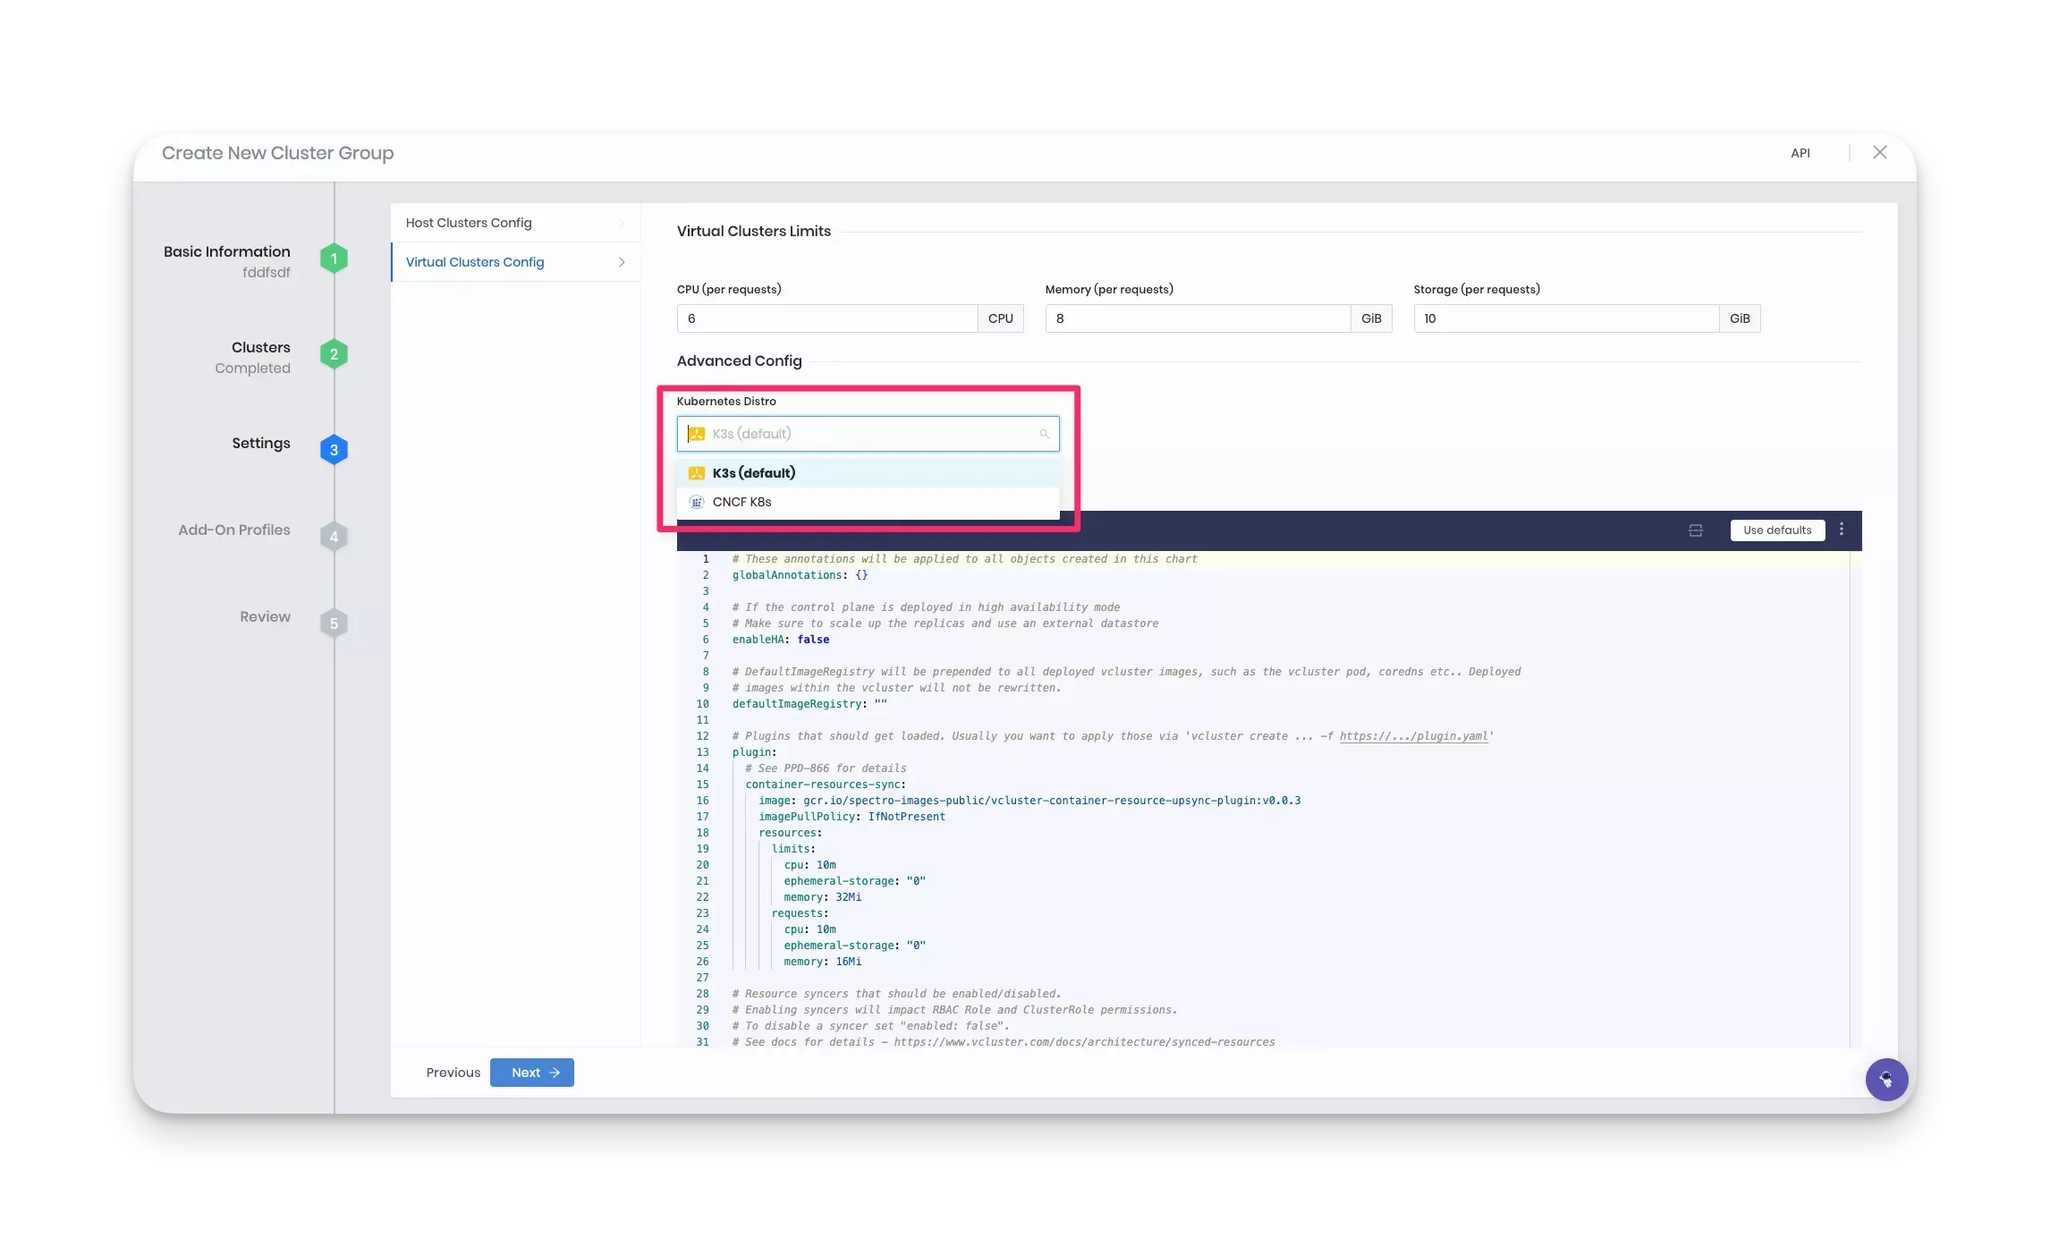
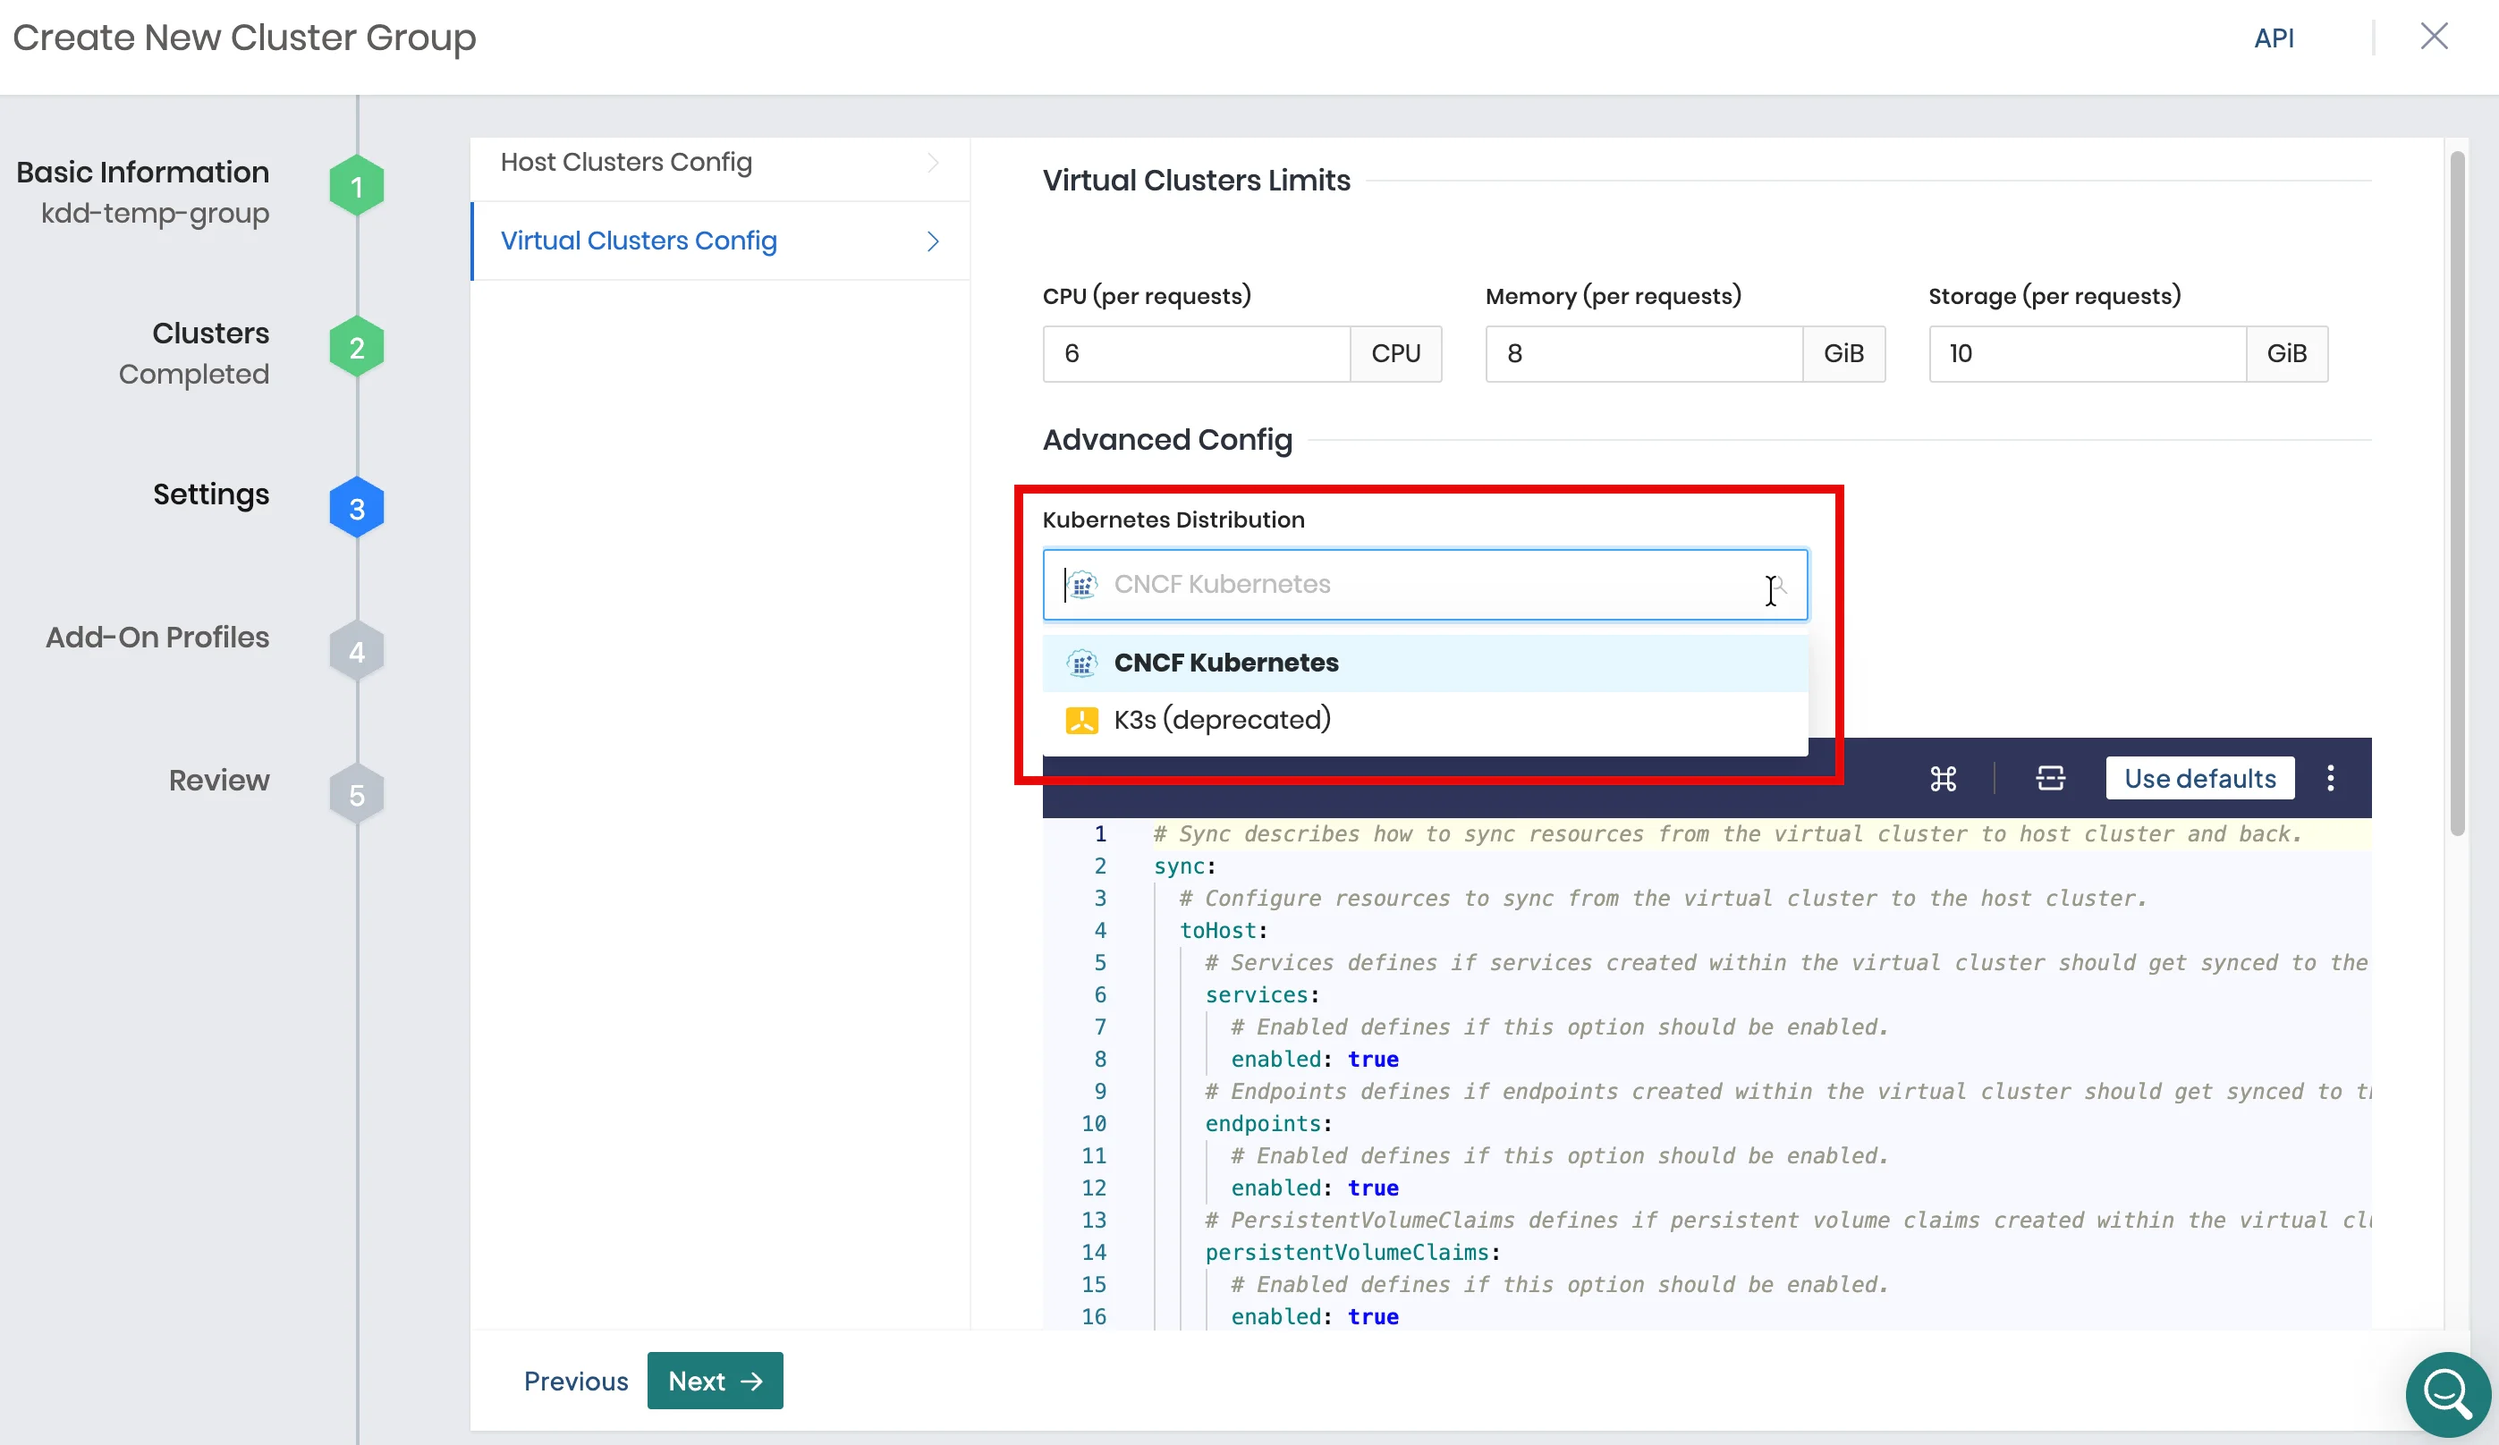
backport k3s deprecation to 4.9

diff --git a/docs/docs-content/clusters/palette-virtual-clusters/palette-virtual-clusters.md b/docs/docs-content/clusters/palette-virtual-clusters/palette-virtual-clusters.md
@@ -10,9 +10,16 @@ tags: ["clusters", "virtual clusters"]
 
 Palette Virtual Clusters are nested Kubernetes clusters within a Host Cluster. Virtual clusters share the host cluster
 resources, such as CPU, memory, storage, container network interface (CNI), and container storage interface (CSI). By
-default, virtual clusters use [k3s](https://github.com/k3s-io/k3s), a highly available, certified Kubernetes
-distribution designed for production workloads. Virtual clusters are supported in both connected and airgapped
-environments.
+default, new virtual clusters use the CNCF [Kubernetes](https://www.cncf.io/projects/kubernetes) distribution. Virtual
+clusters are supported in both connected and airgapped environments.
+
+:::warning
+
+K3s is deprecated as a virtual cluster distribution and will be removed in a future Palette release. Existing virtual
+clusters that use K3s continue to run. Use the Kubernetes distribution when you create new cluster groups and virtual
+clusters.
+
+:::
 
 Palette provisions and orchestrates virtual clusters to make the lightweight Kubernetes technology stack and tools
 ecosystem available to you. Deploy virtual clusters on both new and imported Host Clusters and attach application
@@ -30,10 +37,10 @@ To get started, refer to [Deploy a Virtual Cluster to a Cluster Group](deploy-vi
 
 The following Kubernetes distributions are supported for virtual clusters:
 
-| **Name**       | **Description**                                                                                                  |
-| -------------- | ---------------------------------------------------------------------------------------------------------------- |
-| **K3s**        | [K3s](https://k3s.io) is a lightweight, certified Kubernetes distribution designed for production workloads.     |
-| **Kubernetes** | The Cloud Native Computing Foundation (CNCF) [Kubernetes distribution](https://www.cncf.io/projects/kubernetes). |
+| **Name**       | **Description**                                                                                                        |
+| -------------- | ---------------------------------------------------------------------------------------------------------------------- |
+| **Kubernetes** | The Cloud Native Computing Foundation (CNCF) [Kubernetes distribution](https://www.cncf.io/projects/kubernetes).       |
+| **K3s**        | [K3s](https://k3s.io) is deprecated as a virtual cluster distribution and will be removed in a future Palette release. |
 
 Refer to the
 [Create and Manager Cluster Groups](../cluster-groups/create-cluster-group.md#palette-virtual-cluster-configuration) to

diff --git a/docs/docs-content/devx/palette-virtual-clusters/palette-virtual-clusters.md b/docs/docs-content/devx/palette-virtual-clusters/palette-virtual-clusters.md
@@ -8,8 +8,16 @@ tags: ["devx", "app mode", "pde"]
 
 Palette Virtual Clusters are Kubernetes clusters that run as nested clusters within an existing cluster (also known as a
 Host Cluster) or Host Cluster groups and share the host cluster resources, such as CPU, memory, and storage. By default,
-virtual clusters use k3s as virtual Kubernetes cluster, which is a highly available, certified Kubernetes distribution
-designed for production workloads. Palette Virtual Clusters are powered by [vCluster](https://www.vcluster.com/).
+new virtual clusters use the CNCF [Kubernetes](https://www.cncf.io/projects/kubernetes) distribution. Palette Virtual
+Clusters are powered by [vCluster](https://www.vcluster.com/).
+
+:::warning
+
+K3s is deprecated as a virtual cluster distribution and will be removed in a future Palette release. Existing virtual
+clusters that use K3s continue to run. Use the Kubernetes distribution when you create new cluster groups and virtual
+clusters.
+
+:::
 
 The Palette platform provisions and orchestrates all Palette Virtual CLusters, making it simple to use the lightweight,
 Kubernetes technology stack and tools ecosystem. Deploy virtual clusters on Host Cluster Group by following the wizard

diff --git a/docs/docs-content/release-notes/release-notes.md b/docs/docs-content/release-notes/release-notes.md
@@ -816,6 +816,14 @@ The following component updates are applicable to this release:
 - Removing a Spectro-managed namespace from a cluster's **RBAC** settings or from a **Workspace** now prompts you to
   confirm the action, preventing accidental deletion.
 
+<!-- https://spectrocloud.atlassian.net/browse/PPD-1570 -->
+
+- K3s is deprecated as a Palette Virtual Cluster distribution and will be removed in a future Palette release. K3s was
+  deprecated in Palette 4.8.0, when the cluster group distribution selector in the Palette UI began marking K3s as
+  deprecated and moved the Kubernetes distribution to the top of the list. Existing virtual clusters that use K3s
+  continue to run. Use the Kubernetes distribution when you create new cluster groups and virtual clusters. Refer to
+  [Palette Virtual Clusters](../clusters/palette-virtual-clusters/palette-virtual-clusters.md) for more information.
+
 #### Bug Fixes
 
 <!-- https://spectrocloud.atlassian.net/browse/PCP-6689 -->

diff --git a/docs/docs-content/troubleshooting/palette-dev-engine.md b/docs/docs-content/troubleshooting/palette-dev-engine.md
@@ -150,7 +150,13 @@ limits for a virtual cluster, and use the host cluster's default resource limits
 
 ## Scenario - Adjust Virtual Clusters Limits Before Palette Upgrades
 
-Palette upgrades on K3s virtual clusters may get stuck if the cluster does not have enough resources to accommodate
+:::info
+
+K3s is deprecated as a virtual cluster distribution. This scenario applies to existing virtual clusters that use K3s.
+
+:::
+
+Palette upgrades on K3s virtual clusters might get stuck if the cluster does not have enough resources to accommodate
 additional pods. Ensure that your cluster has 1 CPU, 1 GiB of memory, and 1 GiB storage of free resources before
 commencing an upgrade. Use the following steps to adjust the resource limits of a virtual cluster.
 

diff --git a/docs/docs-content/tutorials/pde/deploy-app.md b/docs/docs-content/tutorials/pde/deploy-app.md
@@ -70,8 +70,7 @@ virtual cluster will reside on the workload clusters belonging to the cluster gr
 Virtual clusters are standalone Kubernetes environments that sit on top of what you would consider a traditional
 Kubernetes cluster or host cluster. Palette Virtual Clusters are Kubernetes clusters that run as nested clusters within
 an existing host cluster and share the host cluster resources, such as CPU, memory, and storage. Palette Virtual
-Clusters use k3s, a highly available, certified Kubernetes distribution designed for production workloads. Palette
-Virtual Clusters are also powered by vCluster.
+Clusters use the CNCF Kubernetes distribution and are powered by vCluster.
 
 :::
 
